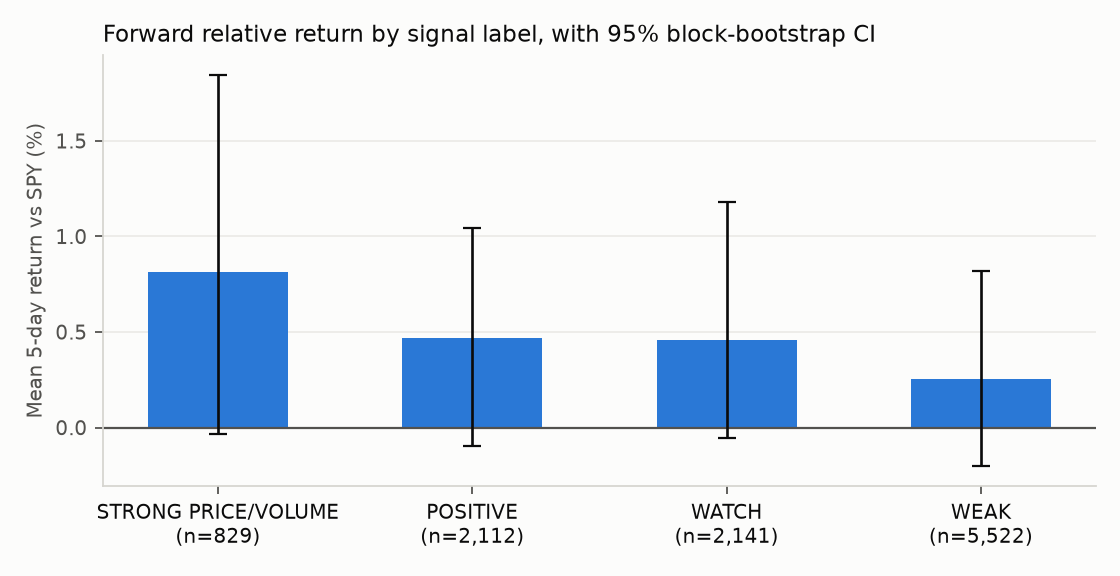
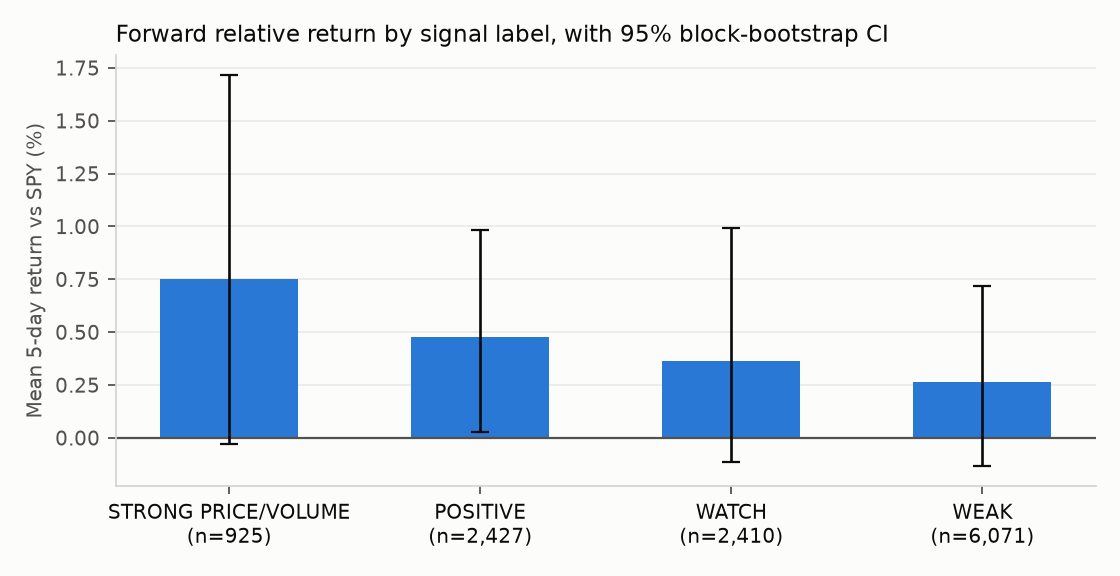
Signal evaluation for 2026-11-06

diff --git a/docs/evaluation.md b/docs/evaluation.md
@@ -6,14 +6,14 @@ performance relative to the S&P 500 over the next 5 trading days?**
 
 ## Summary
 
-*Last evaluated 2026-11-06 on 10,604 ticker-days (2021-12-07 to 2026-10-29), 5-day horizon, data: yahoo.*
+*Last evaluated 2026-11-06 on 11,833 ticker-days (2021-12-07 to 2026-10-29), 5-day horizon, data: yahoo.*
 
 | Metric | Estimate | 95% CI |
 |---|---:|---:|
-| Rank IC: score vs forward return over SPY | -0.008 | [-0.059, +0.037] |
-| Rank IC, non-overlapping windows only | -0.018 | |
-| Mean return gap: POSITIVE-or-better minus WEAK | +0.31% | [-0.47%, +0.96%] |
-| Out-of-sample AUC: hand weights vs learned weights | 0.487 vs 0.493 | |
+| Rank IC: score vs forward return over SPY | -0.006 | [-0.053, +0.040] |
+| Rank IC, non-overlapping windows only | -0.020 | |
+| Mean return gap: POSITIVE-or-better minus WEAK | +0.29% | [-0.41%, +0.88%] |
+| Out-of-sample AUC: hand weights vs learned weights | 0.491 vs 0.492 | |
 
 The 95% interval for the IC includes zero, so the data do not support a claim that the score predicts forward relative returns. That is a legitimate finding: the score is useful as a description of today's move, not as a forecast.
 
@@ -21,8 +21,8 @@ The 95% interval for the IC includes zero, so the data do not support a claim th
 
 ## Setup
 
-- **Universe:** ALAB, AMD, AMZN, ETN, FSLR, GOOG, MRVL, NVDA, SKHY, SPCX, TSLA; benchmark SPY.
-- **Sample:** 1,229 trading days, 10,604 ticker-days with a full score.
+- **Universe:** ALAB, AMD, AMZN, ETN, FSLR, GOOG, IBM, MRVL, NVDA, SKHY, SPCX, TSLA; benchmark SPY.
+- **Sample:** 1,229 trading days, 11,833 ticker-days with a full score.
   Rows labelled *INSUFFICIENT DATA* (too little history, e.g. right after an IPO) are excluded.
 - **Target:** 5-day forward return minus SPY's forward return over the same days.
 - **No look-ahead:** every indicator at day *t* uses data through the close of *t* only;
@@ -37,10 +37,10 @@ The 95% interval for the IC includes zero, so the data do not support a claim th
 
 | label | n | mean | ci_lo | ci_hi | median | hit_rate |
 |---|---:|---:|---:|---:|---:|---:|
-| STRONG PRICE/VOLUME | 829 | +0.81% | -0.03% | +1.85% | +0.22% | 52.1% |
-| POSITIVE | 2,112 | +0.47% | -0.10% | +1.05% | -0.05% | 49.5% |
-| WATCH | 2,141 | +0.46% | -0.05% | +1.18% | +0.22% | 51.5% |
-| WEAK | 5,522 | +0.25% | -0.20% | +0.82% | +0.10% | 51.1% |
+| STRONG PRICE/VOLUME | 925 | +0.75% | -0.03% | +1.72% | +0.25% | 52.4% |
+| POSITIVE | 2,427 | +0.48% | +0.03% | +0.98% | +0.07% | 50.8% |
+| WATCH | 2,410 | +0.36% | -0.11% | +0.99% | +0.09% | 50.8% |
+| WEAK | 6,071 | +0.26% | -0.14% | +0.72% | +0.09% | 51.0% |
 
 ## Stability
 
@@ -50,12 +50,12 @@ The full-sample IC can hide periods where the relationship flips sign.
 
 | year | n | ic |
 |---|---:|---:|
-| 2021 | 144 | -0.003 |
-| 2022 | 2,008 | -0.022 |
-| 2023 | 2,000 | -0.121 |
-| 2024 | 2,194 | +0.038 |
-| 2025 | 2,250 | -0.019 |
-| 2026 | 2,008 | -0.049 |
+| 2021 | 162 | +0.146 |
+| 2022 | 2,259 | -0.001 |
+| 2023 | 2,250 | -0.102 |
+| 2024 | 2,446 | +0.045 |
+| 2025 | 2,500 | -0.015 |
+| 2026 | 2,216 | -0.059 |
 
 By ticker:
 
@@ -67,6 +67,7 @@ By ticker:
 | ETN | 1,229 | -0.046 | 2021-12-07 |
 | FSLR | 1,229 | -0.049 | 2021-12-07 |
 | GOOG | 1,229 | -0.001 | 2021-12-07 |
+| IBM | 1,229 | +0.029 | 2021-12-07 |
 | MRVL | 1,229 | -0.039 | 2021-12-07 |
 | NVDA | 1,229 | -0.030 | 2021-12-07 |
 | SKHY | 59 | -0.314 | 2026-08-07 |
@@ -82,19 +83,19 @@ re-scores the full history with one component removed and the rest re-weighted t
 
 | signal | ic |
 |---|---:|
-| Composite score (this model) | -0.008 |
-| 20-day return only (momentum) | +0.007 |
-| 20-day return vs SPY only | +0.009 |
-| RVOL20 only | +0.016 |
-| Shuffled score (null) | +0.002 |
+| Composite score (this model) | -0.006 |
+| 20-day return only (momentum) | +0.005 |
+| 20-day return vs SPY only | +0.006 |
+| RVOL20 only | +0.013 |
+| Shuffled score (null) | -0.005 |
 
 | removed | ic | change |
 |---|---:|---:|
-| trend | -0.006 | +0.002 |
-| volume | -0.006 | +0.002 |
-| breakout | -0.012 | -0.004 |
-| momentum | -0.005 | +0.003 |
-| relative_strength | -0.008 | -0.000 |
+| trend | -0.003 | +0.003 |
+| volume | -0.004 | +0.002 |
+| breakout | -0.011 | -0.005 |
+| momentum | -0.004 | +0.002 |
+| relative_strength | -0.006 | -0.000 |
 
 A negative *change* means removing the component hurts, i.e. it was contributing.
 
@@ -105,18 +106,18 @@ differently, a logistic regression on the five component scores is refit every q
 expanding window and used only to score later dates. A 5-day gap separates
 each training cut-off from the test period so overlapping targets cannot leak.
 
-Out-of-sample period: 2022-12-07 onward, 8,588 ticker-days.
+Out-of-sample period: 2022-12-07 onward, 9,565 ticker-days.
 
 | Model | AUC (target: beats SPY) | Spearman IC |
 |---|---:|---:|
-| Hand-weighted score | 0.487 | -0.020 |
-| Walk-forward logistic regression | 0.493 | -0.031 |
+| Hand-weighted score | 0.491 | -0.017 |
+| Walk-forward logistic regression | 0.492 | -0.031 |
 
 Learning the weights from data does not beat the hand-chosen weights out of sample. With this little data, the simpler fixed-weight model is preferable.
 
 ## Limitations
 
-- 11 stocks is a small, concentrated, highly correlated universe. Results may not
+- 12 stocks is a small, concentrated, highly correlated universe. Results may not
   generalise to other sectors or periods. Recent listings contribute only a few months of data.
 - Several baselines, ablations and a model are compared on the same data. Treat any single
   small difference as noise unless it holds up out of sample.

diff --git a/docs/premarket_evaluation.md b/docs/premarket_evaluation.md
@@ -7,21 +7,21 @@ close, relative to SPY over the same hours?**
 
 ## Summary
 
-*Last evaluated 2026-11-06 on 6,607 ticker-days (2023-11-07 to 2026-11-05), pre-market bars through 08:30 ET, data: alpaca-sip.*
+*Last evaluated 2026-11-06 on 7,344 ticker-days (2023-11-07 to 2026-11-05), pre-market bars through 08:30 ET, data: alpaca-sip.*
 
 | Metric | Estimate | 95% CI |
 |---|---:|---:|
-| Rank IC: pre-market score vs open-to-close return over SPY | -0.022 | [-0.056, +0.003] |
-| Mean return gap: POSITIVE-or-better minus WEAK | +0.07% | [-0.14%, +0.27%] |
-| Rank IC: gap vs SPY alone (negative = gaps fade) | -0.007 | |
+| Rank IC: pre-market score vs open-to-close return over SPY | -0.019 | [-0.049, +0.006] |
+| Mean return gap: POSITIVE-or-better minus WEAK | +0.09% | [-0.10%, +0.28%] |
+| Rank IC: gap vs SPY alone (negative = gaps fade) | -0.008 | |
 
 The 95% interval includes zero, so the data do not show that the pre-market score predicts the regular session. It describes the pre-market well; it is not a forecast.
 
 
 ## Setup
 
-- **Universe:** ALAB, AMD, AMZN, ETN, FSLR, GOOG, MRVL, NVDA, SKHY, SPCX, TSLA; benchmark SPY.
-- **Sample:** 752 trading days, 6,607 ticker-days with a full pre-market score.
+- **Universe:** ALAB, AMD, AMZN, ETN, FSLR, GOOG, IBM, MRVL, NVDA, SKHY, SPCX, TSLA; benchmark SPY.
+- **Sample:** 752 trading days, 7,344 ticker-days with a full pre-market score.
   0 ticker-days with a gap larger than 40% were dropped as
   likely data errors or corporate actions.
 - **Data:** Alpaca SIP feed (trades from every U.S. exchange), 30-minute bars over about 3 years, split-adjusted. Includes pre-market volume.
@@ -38,21 +38,21 @@ The 95% interval includes zero, so the data do not show that the pre-market scor
 
 | label | n | mean | ci_lo | ci_hi | median | hit_rate |
 |---|---:|---:|---:|---:|---:|---:|
-| STRONG PRICE/VOLUME | 200 | -0.17% | -0.47% | +0.12% | -0.19% | 46.0% |
-| POSITIVE | 412 | +0.19% | +0.01% | +0.45% | +0.11% | 52.7% |
-| WATCH | 1,050 | -0.05% | -0.23% | +0.08% | -0.03% | 48.7% |
-| WEAK | 4,945 | +0.01% | -0.08% | +0.11% | -0.03% | 49.5% |
+| STRONG PRICE/VOLUME | 226 | -0.05% | -0.35% | +0.23% | -0.12% | 46.9% |
+| POSITIVE | 462 | +0.18% | +0.02% | +0.41% | +0.09% | 52.6% |
+| WATCH | 1,237 | -0.04% | -0.18% | +0.07% | -0.01% | 49.9% |
+| WEAK | 5,419 | +0.01% | -0.06% | +0.10% | -0.02% | 49.7% |
 
 ## Baselines
 
 | signal | ic |
 |---|---:|
-| Pre-market score (this model) | -0.022 |
-| Gap vs SPY only | -0.007 |
-| Gap / ATR only | -0.005 |
-| Pre-market RVOL only | +0.004 |
-| Prior close end-of-day score only | -0.028 |
-| Shuffled score (null) | -0.003 |
+| Pre-market score (this model) | -0.019 |
+| Gap vs SPY only | -0.008 |
+| Gap / ATR only | -0.007 |
+| Pre-market RVOL only | +0.002 |
+| Prior close end-of-day score only | -0.024 |
+| Shuffled score (null) | -0.004 |
 
 The gap rows answer a classic market-microstructure question directly: a negative IC means
 pre-market moves have tended to reverse after the open (gap fade); a positive IC means they
@@ -62,10 +62,10 @@ have tended to extend (gap continuation).
 
 | removed | ic | change |
 |---|---:|---:|
-| gap | -0.020 | +0.003 |
-| volume | -0.021 | +0.002 |
-| level | -0.025 | -0.003 |
-| context | -0.016 | +0.006 |
+| gap | -0.015 | +0.004 |
+| volume | -0.015 | +0.004 |
+| level | -0.025 | -0.007 |
+| context | -0.013 | +0.005 |
 
 A negative *change* means removing the component lowers the IC, i.e. it was contributing.
 
@@ -79,6 +79,7 @@ A negative *change* means removing the component lowers the IC, i.e. it was cont
 | ETN | 555 | -0.071 | 1.05% |
 | FSLR | 741 | -0.046 | 1.09% |
 | GOOG | 752 | -0.027 | 0.78% |
+| IBM | 737 | -0.000 | 0.64% |
 | MRVL | 752 | -0.045 | 1.77% |
 | NVDA | 752 | -0.063 | 1.15% |
 | SKHY | 70 | +0.038 | 2.89% |
@@ -91,4 +92,4 @@ A negative *change* means removing the component lowers the IC, i.e. it was cont
 - Intraday prices are not dividend-adjusted; on ex-dividend days the measured gap includes the
   dividend. The effect is small for this universe.
 - Open-to-close returns ignore the cost of trading at the open, when spreads are widest.
-- 11 correlated stocks; several comparisons on the same data. Not investment advice.
+- 12 correlated stocks; several comparisons on the same data. Not investment advice.

diff --git a/README.md b/README.md
@@ -19,10 +19,10 @@
 ## Key findings
 
 <!-- FINDINGS-EOD:START -->
-- **End-of-day signal: no evidence of predictive power.** The rank IC between the score and the next 5 days' return over SPY is -0.008 (95% CI -0.059 to +0.037) across 10,604 stock-days; a randomly shuffled score gets +0.002.
+- **End-of-day signal: no evidence of predictive power.** The rank IC between the score and the next 5 days' return over SPY is -0.006 (95% CI -0.053 to +0.040) across 11,833 stock-days; a randomly shuffled score gets -0.005.
 <!-- FINDINGS-EOD:END -->
 <!-- FINDINGS-PM:START -->
-- **Pre-market signal: no evidence of predictive power.** The rank IC between the 08:30 ET pre-market score and the same day's open-to-close return over SPY is -0.022 (95% CI -0.056 to +0.003) across 6,607 stock-days; a randomly shuffled score gets -0.003. On their own, the pre-market gap has an IC of -0.007 (negative would mean gaps fade) and pre-market volume +0.004.
+- **Pre-market signal: no evidence of predictive power.** The rank IC between the 08:30 ET pre-market score and the same day's open-to-close return over SPY is -0.019 (95% CI -0.049 to +0.006) across 7,344 stock-days; a randomly shuffled score gets -0.004. On their own, the pre-market gap has an IC of -0.008 (negative would mean gaps fade) and pre-market volume +0.002.
 <!-- FINDINGS-PM:END -->
 - **How it was tested:** a common trading belief, that moves confirmed by volume keep going, is
   turned into a transparent score and tested on end-of-day and pre-market data with
@@ -63,14 +63,14 @@ The project has two halves, each run on end-of-day and on pre-market data:
 ### End-of-day score → next 5 days
 
 <!-- EVAL:START -->
-*Last evaluated 2026-11-06 on 10,604 ticker-days (2021-12-07 to 2026-10-29), 5-day horizon, data: yahoo.*
+*Last evaluated 2026-11-06 on 11,833 ticker-days (2021-12-07 to 2026-10-29), 5-day horizon, data: yahoo.*
 
 | Metric | Estimate | 95% CI |
 |---|---:|---:|
-| Rank IC: score vs forward return over SPY | -0.008 | [-0.059, +0.037] |
-| Rank IC, non-overlapping windows only | -0.018 | |
-| Mean return gap: POSITIVE-or-better minus WEAK | +0.31% | [-0.47%, +0.96%] |
-| Out-of-sample AUC: hand weights vs learned weights | 0.487 vs 0.493 | |
+| Rank IC: score vs forward return over SPY | -0.006 | [-0.053, +0.040] |
+| Rank IC, non-overlapping windows only | -0.020 | |
+| Mean return gap: POSITIVE-or-better minus WEAK | +0.29% | [-0.41%, +0.88%] |
+| Out-of-sample AUC: hand weights vs learned weights | 0.491 vs 0.492 | |
 
 The 95% interval for the IC includes zero, so the data do not support a claim that the score predicts forward relative returns. That is a legitimate finding: the score is useful as a description of today's move, not as a forecast.
 
@@ -80,13 +80,13 @@ Full write-up: [docs/evaluation.md](docs/evaluation.md)
 ### Pre-market score → same-day open-to-close
 
 <!-- PREMARKET-EVAL:START -->
-*Last evaluated 2026-11-06 on 6,607 ticker-days (2023-11-07 to 2026-11-05), pre-market bars through 08:30 ET, data: alpaca-sip.*
+*Last evaluated 2026-11-06 on 7,344 ticker-days (2023-11-07 to 2026-11-05), pre-market bars through 08:30 ET, data: alpaca-sip.*
 
 | Metric | Estimate | 95% CI |
 |---|---:|---:|
-| Rank IC: pre-market score vs open-to-close return over SPY | -0.022 | [-0.056, +0.003] |
-| Mean return gap: POSITIVE-or-better minus WEAK | +0.07% | [-0.14%, +0.27%] |
-| Rank IC: gap vs SPY alone (negative = gaps fade) | -0.007 | |
+| Rank IC: pre-market score vs open-to-close return over SPY | -0.019 | [-0.049, +0.006] |
+| Mean return gap: POSITIVE-or-better minus WEAK | +0.09% | [-0.10%, +0.28%] |
+| Rank IC: gap vs SPY alone (negative = gaps fade) | -0.008 | |
 
 The 95% interval includes zero, so the data do not show that the pre-market score predicts the regular session. It describes the pre-market well; it is not a forecast.
 
